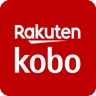
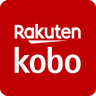
홈페이지 검색 정보: 지원 앱에 Kobo Books
README 아이콘 kobo.png 는 홈페이지 아이콘(에뮬 IconDump)에서 og.py 와 같은 방법으로 다시 줄인 것.

diff --git a/tools/site/seo.py b/tools/site/seo.py
@@ -278,7 +278,7 @@ Latest version: {VERSION} ({RELEASED}), first released {FIRST}.
 ## Features
 
 {chr(10).join("- " + f for f in en["features"])}
-- Supported reading apps (auto-add): Kindle, Libby, KOReader, Readest, BookFusion, Moon+ Reader, EzViewer (이지뷰어), CherieViewer (채리뷰어), Woojoo (우주뷰어), Google Play Books, Mihon, Kahon, Kyobo Library, Kyobo eBook, millie (밀리의서재), Aladin, Bookers, RIDI, YES24 Library, my YES, YES24 eBook, NeoReader (BOOX)
+- Supported reading apps (auto-add): Kindle, Kobo Books, Libby, KOReader, Readest, BookFusion, Moon+ Reader, EzViewer (이지뷰어), CherieViewer (채리뷰어), Woojoo (우주뷰어), Google Play Books, Mihon, Kahon, Kyobo Library, Kyobo eBook, millie (밀리의서재), Aladin, Bookers, RIDI, YES24 Library, my YES, YES24 eBook, NeoReader (BOOX)
 
 ## Compared with other launchers
 
